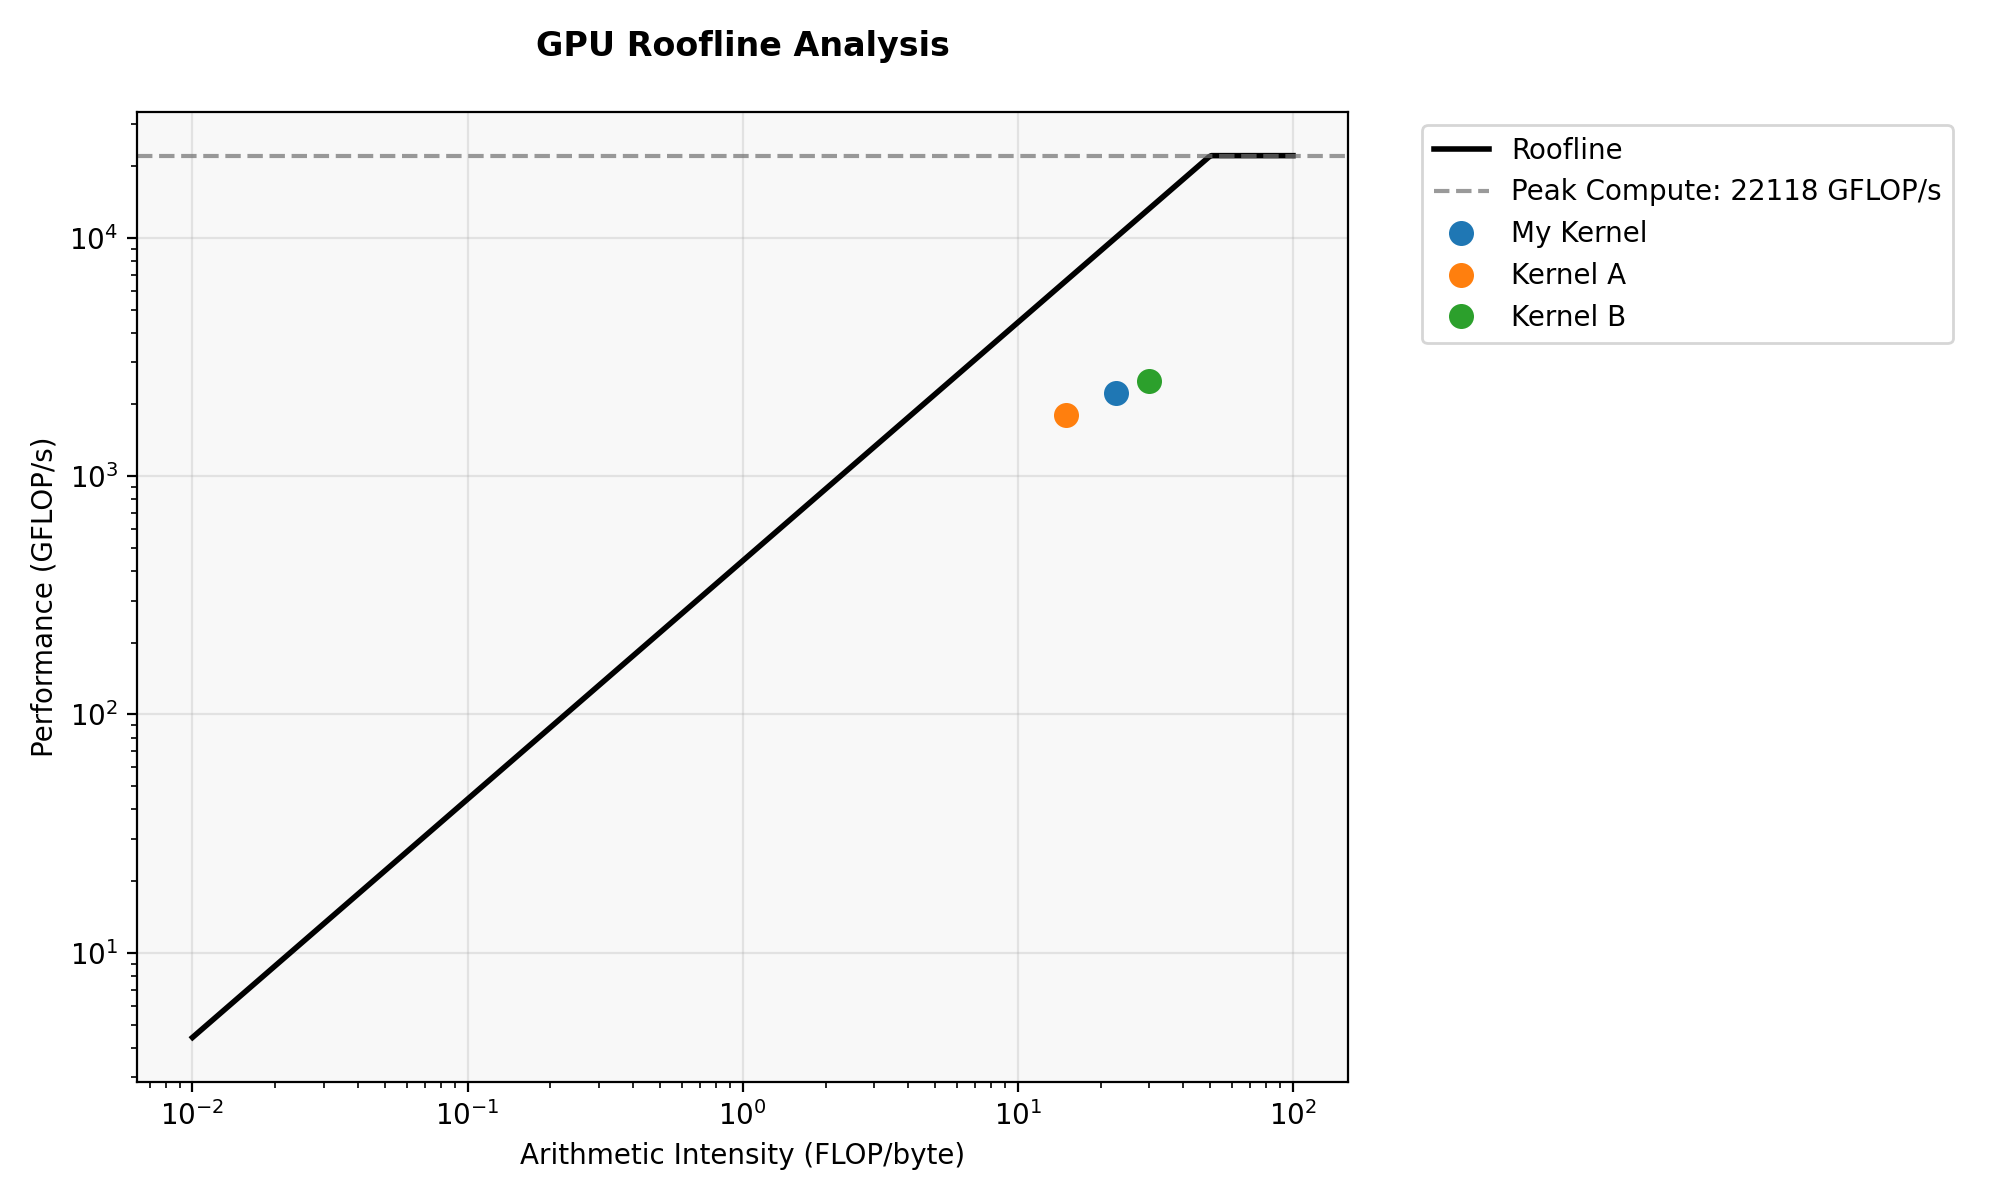
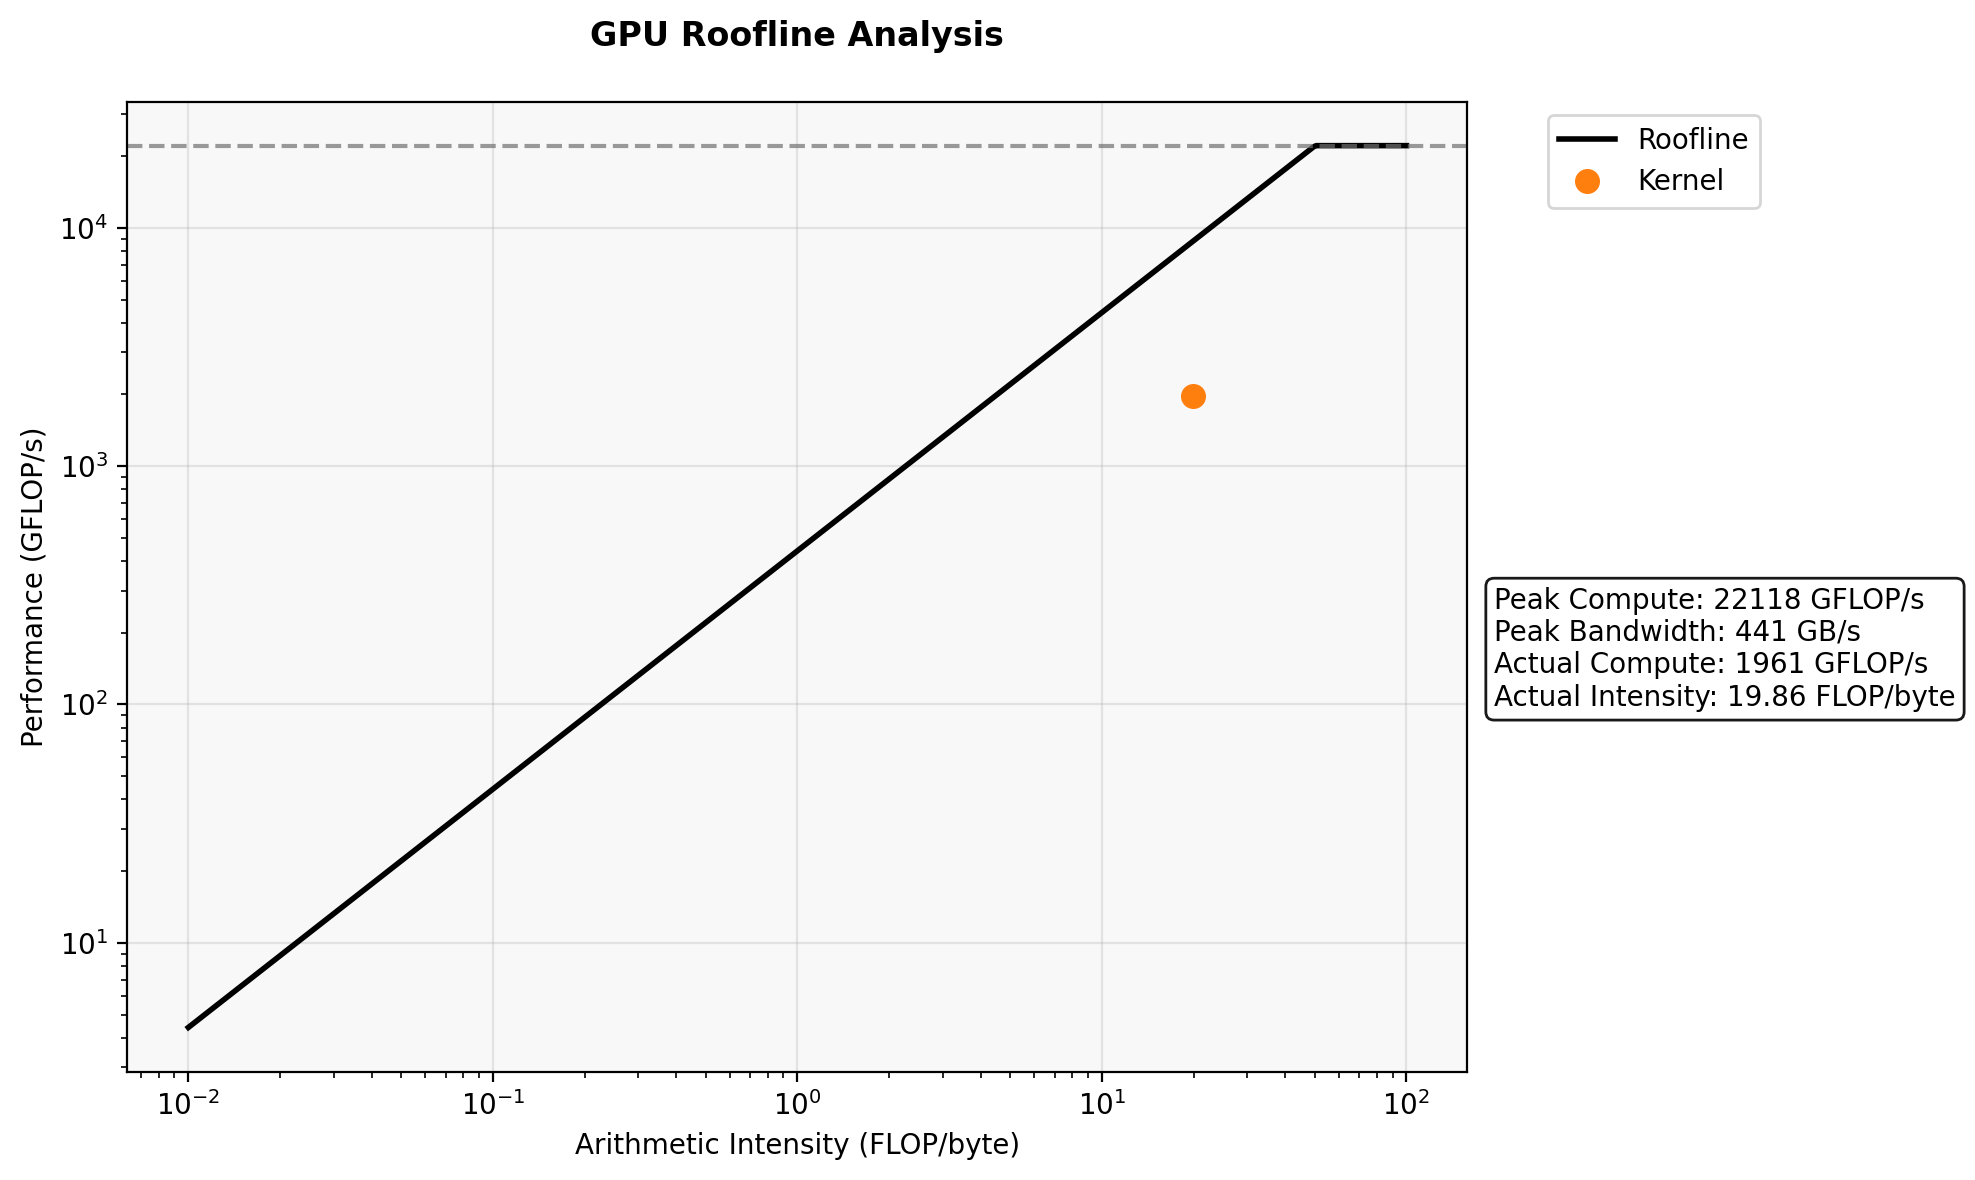
Add roofline script

diff --git a/graphing.py b/graphing.py
@@ -1,7 +1,93 @@
 import matplotlib.pyplot as plt
 import numpy as np
+import pandas as pd, csv
+import argparse
+import sys
 
-def plot_roofline(peak_compute, peak_bandwidth, data_points, title="Roofline Plot"):
+def parse_ncu_csv(csv_file):
+    """
+    Parse NSight Compute CSV file to extract roofline data
+    Returns: (peak_compute, peak_bandwidth, actual_compute, actual_intensity)
+    """
+    try:
+        df = pd.read_csv(csv_file, quoting=csv.QUOTE_ALL)
+    except Exception as e:
+        print(f"Error reading CSV file: {e}")
+        sys.exit(1)
+
+    # Relevant columns: "Section Name","Body Item Label","Metric Name","Metric Unit","Metric Value"
+    
+    # Filter for single precision data
+    single_precision_data = df[df['Body Item Label'] == 'Single Precision Roofline']
+    achieved_data = df[df['Body Item Label'] == 'Single Precision Achieved Value']
+    
+    if single_precision_data.empty or achieved_data.empty:
+        print("Error: Could not find required Single Precision data in CSV")
+        sys.exit(1)
+    
+    # Extract peak values (should be constant across entries)
+    peak_compute_row = single_precision_data[
+        single_precision_data['Metric Name'] == 'Theoretical Predicated-On FFMA Operations'
+    ]
+    peak_sm_freq_row = single_precision_data[
+        single_precision_data['Metric Name'] == 'SM Frequency'
+    ]
+    
+    peak_dram_bw_row = single_precision_data[
+        single_precision_data['Metric Name'] == 'Theoretical DRAM Bytes Accessible'
+    ]
+    peak_dram_freq_row = single_precision_data[
+        single_precision_data['Metric Name'] == 'DRAM Frequency'
+    ]
+    
+    if peak_compute_row.empty or peak_sm_freq_row.empty or peak_dram_bw_row.empty or peak_dram_freq_row.empty:
+        print("Error: Could not find all required peak performance metrics")
+        sys.exit(1)
+    
+    # Get peak values (take first occurrence since they should be constant)
+    peak_ffma_ops = float(peak_compute_row.iloc[0]['Metric Value'])  # inst
+    peak_sm_freq = float(peak_sm_freq_row.iloc[0]['Metric Value'])   # GHz
+    peak_dram_bytes_per_cycle = float(peak_dram_bw_row.iloc[0]['Metric Value'])  # byte/cycle
+    peak_dram_freq = float(peak_dram_freq_row.iloc[0]['Metric Value'])  # GHz
+    
+    # Calculate peak compute performance (GFLOP/s)
+    # FFMA operations per cycle * SM frequency = GFLOP/s
+    peak_compute = peak_ffma_ops * peak_sm_freq
+    
+    # Calculate peak memory bandwidth (GB/s)
+    # bytes per cycle * DRAM frequency = GB/s
+    peak_bandwidth = (peak_dram_bytes_per_cycle * peak_dram_freq)
+    
+    # Extract achieved performance values
+    achieved_perf_rows = achieved_data[
+        achieved_data['Metric Name'] == 'Predicated-On FFMA Operations Per Cycle'
+    ]
+    achieved_sm_freq_rows = achieved_data[
+        achieved_data['Metric Name'] == 'SM Frequency'
+    ]
+    achieved_bw_rows = achieved_data[
+        achieved_data['Metric Name'] == 'DRAM Bandwidth'
+    ]
+    
+    if achieved_perf_rows.empty or achieved_bw_rows.empty:
+        print("Error: Could not find achieved performance metrics")
+        sys.exit(1)
+
+    # GFLOP/s
+    achieved_perfs = achieved_perf_rows['Metric Value'].astype(float).values * achieved_sm_freq_rows['Metric Value'].astype(float).values
+    # GB/s
+    achieved_bws = achieved_bw_rows['Metric Value'].astype(float).values
+    
+    # FLOP/byte
+    achieved_intensities = achieved_perfs / achieved_bws
+
+    achieved_perf_median = np.median(achieved_perfs)
+    achieved_intensity_median = np.median(achieved_intensities)
+    
+    return peak_compute, peak_bandwidth, achieved_perf_median, achieved_intensity_median
+
+
+def plot_roofline(peak_compute, peak_bandwidth, actual_compute, actual_intensity, title="Roofline Plot"):
     """
     Simple roofline plot with clean gray color scheme
     
@@ -28,15 +114,13 @@ def plot_roofline(peak_compute, peak_bandwidth, data_points, title="Roofline Plo
     
     # Plot roofline boundaries
     plt.plot(ai_range, performance_roofline, 'k-', linewidth=2, label='Roofline')
-    plt.axhline(y=peak_compute, color='#707070', linestyle='--', alpha=0.7, 
-                label=f'Peak Compute: {peak_compute:.0f} GFLOP/s')
+    plt.axhline(y=peak_compute, color='#707070', linestyle='--', alpha=0.7)
     
     # Plot data points
     colors = ['#1f77b4', '#ff7f0e', '#2ca02c', '#d62728', '#9467bd', '#8c564b']
     
-    for i, (ai, perf, label) in enumerate(data_points):
-        color = colors[i % len(colors)]
-        plt.plot(ai, perf, 'o', markersize=8, label=label, color=color)
+    color = colors[1]
+    plt.plot(actual_intensity, actual_compute, 'o', markersize=8, label='Kernel', color=color)
     
     # Labels and styling
     plt.xlabel('Arithmetic Intensity (FLOP/byte)')
@@ -44,23 +128,38 @@ def plot_roofline(peak_compute, peak_bandwidth, data_points, title="Roofline Plo
     plt.grid(True, alpha=0.3)
     plt.gca().set_facecolor('#f8f8f8')
     
+    # Add peak performance info on the side
+    peak_info = f'Peak Compute: {peak_compute:.0f} GFLOP/s\nPeak Bandwidth: {peak_bandwidth:.0f} GB/s'
+    peak_info = f'{peak_info}\nActual Compute: {actual_compute:.0f} GFLOP/s\nActual Intensity: {actual_intensity:.2f} FLOP/byte'
+    plt.annotate(peak_info, 
+                xy=(1.02, 0.5), xycoords='axes fraction',
+                bbox=dict(boxstyle="round,pad=0.3", facecolor='white', alpha=0.9),
+                fontsize=10, ha='left', va='top')
+    
     # Legend
     plt.legend(bbox_to_anchor=(1.05, 1), loc='upper left')
     
     plt.tight_layout()
-    plt.savefig('roofline_plot.png')
+    plt.savefig('roofline_plot.png', bbox_inches='tight')
+
+
+def main():
+    parser = argparse.ArgumentParser(description='Generate roofline plot from NSight Compute CSV')
+    parser.add_argument('csv_file', help='Path to the NSight Compute CSV file')
+    parser.add_argument('--title', default='GPU Roofline Analysis', help='Plot title')
+    
+    args = parser.parse_args()
+    
+    print(f"Parsing CSV file: {args.csv_file}")
+    peak_compute, peak_bandwidth, actual_compute, actual_intensity = parse_ncu_csv(args.csv_file)
+    
+    print(f"Peak Compute: {peak_compute:.2f} GFLOP/s")
+    print(f"Peak Bandwidth: {peak_bandwidth:.2f} GB/s")
+    print(f"Actual Compute: {actual_compute:.2f} GFLOP/s")
+    print(f"Actual Intensity: {actual_intensity:.2f} FLOP/byte")
+    
+    plot_roofline(peak_compute, peak_bandwidth, actual_compute, actual_intensity, args.title)
 
 
 if __name__ == "__main__":
-    # Your GPU specifications
-    PEAK_COMPUTE = 22118.4  # GFLOP/s (from your NSight data)
-    PEAK_BANDWIDTH = 441.28  # GB/s (from your NSight data)
-    
-    # Your data points: (arithmetic_intensity, performance, label)
-    MY_DATA_POINTS = [
-        (22.66, 2233, "My Kernel"),
-        (15.0, 1800, "Kernel A"),
-        (30.0, 2500, "Kernel B"),
-    ]
-    
-    plot_roofline(PEAK_COMPUTE, PEAK_BANDWIDTH, MY_DATA_POINTS, "GPU Roofline Analysis")
+    main()
